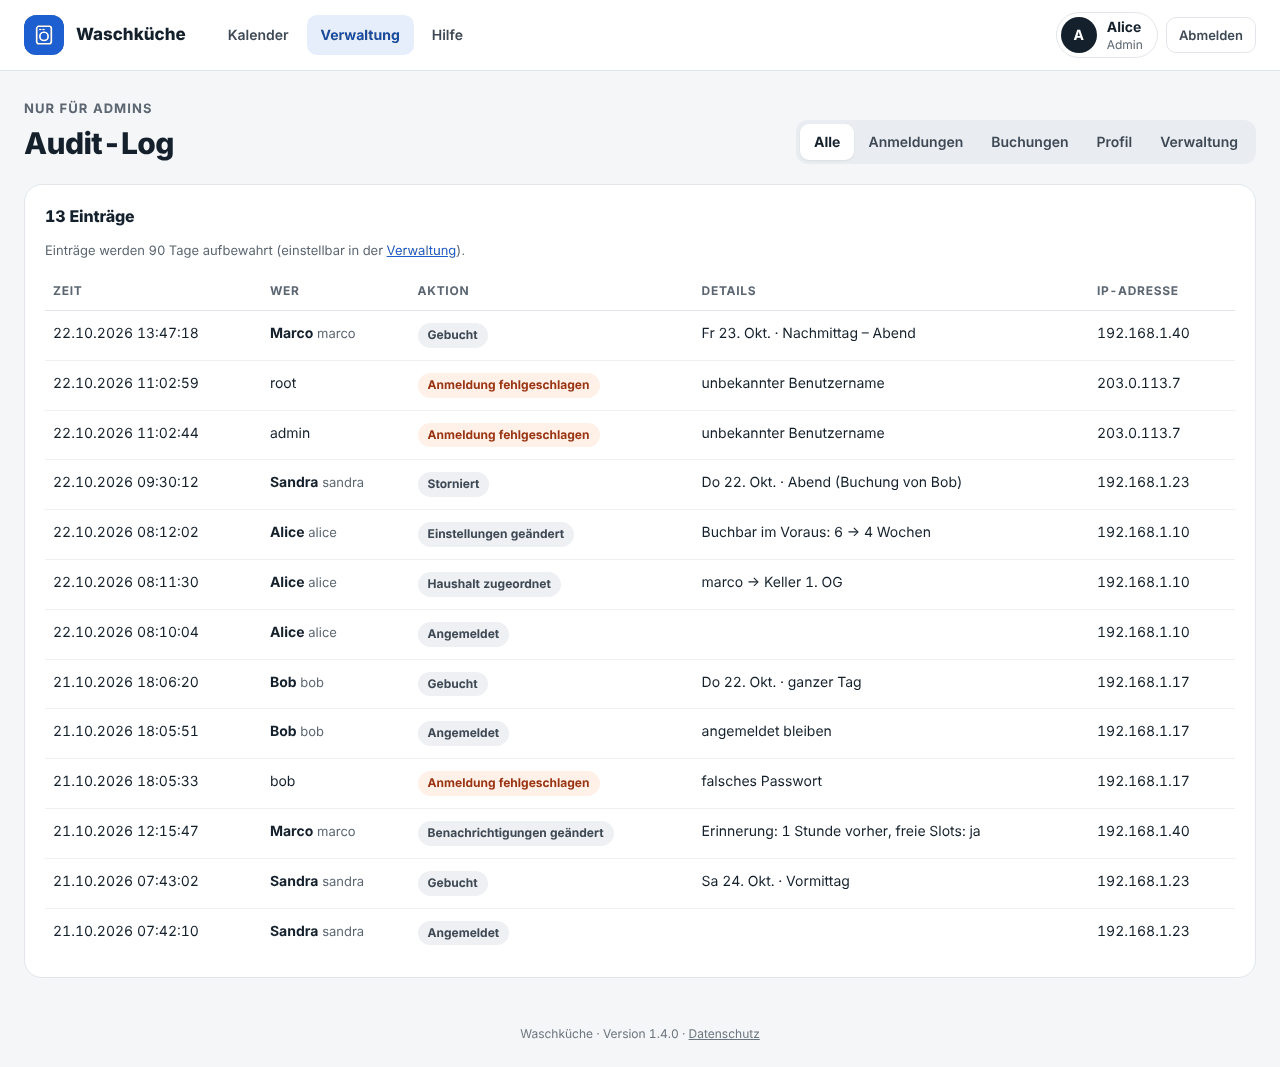
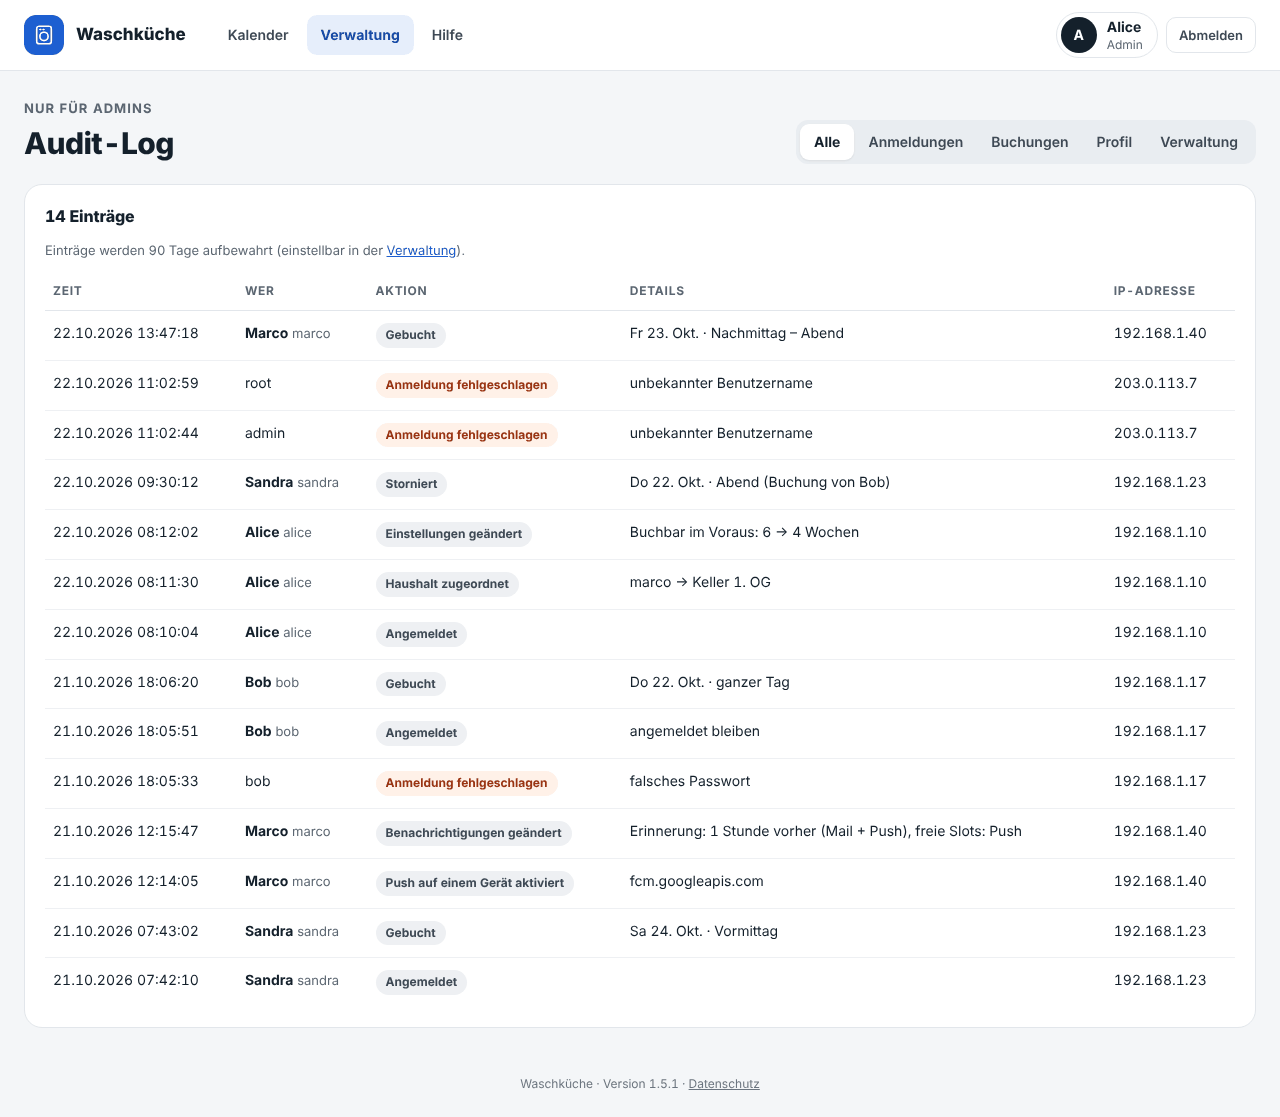
Show push notifications in screenshots, help page and project page
- screenshots.py: mail and push configured; a stand-in for the push service in
  headless Chromium; new notifications.png for the README/project page (push
  active) and the help page (push button and channels highlighted); audit log
  entries in the new format, incl. "Push auf einem Gerät aktiviert"
- Help: new section "Benachrichtigungen" (mail and push, how to switch push on
  per device, iPhone home screen app, blocked notifications); follows whether
  mail and push are configured
- README and project page: notification screenshot, feature text for push
- Retaken README screenshots (current version in the footer, "Passwort
  vergessen?" link); help screenshots unchanged

Claude-Session: https://claude.ai/code/session_01NKmwuoVwqkPr6QQqsvNmse

diff --git a/site/index.html b/site/index.html
@@ -150,7 +150,7 @@
         <div class="card"><h3><span class="icon"><svg viewBox="0 0 24 24" aria-hidden="true"><path d="M8 8l4.8 12 1.9-5.3L20 12.8z"/><path d="M4.5 4.5l1.5 1.5M8 3v2.2M3 8h2.2"/></svg></span>One click to book</h3><p>Click a free slot to book it, click your own booking to cancel it. "Ganzer Tag" books every free slot of a day at once.</p></div>
         <div class="card"><h3><span class="icon"><svg viewBox="0 0 24 24" aria-hidden="true"><rect x="3.5" y="5" width="17" height="15" rx="2"/><path d="M3.5 9.5h17M8 3v4M16 3v4M7.5 13h2M11 13h2M14.5 13h2M7.5 16.5h2M11 16.5h2"/></svg></span>Week and month view</h3><p>The week calendar is the default; the month overview shows the bigger picture. Both work well on phones.</p></div>
         <div class="card"><h3><span class="icon"><svg viewBox="0 0 24 24" aria-hidden="true"><circle cx="12" cy="12" r="8.5"/><path d="M12 7.5V12l3 2"/></svg></span>At a glance</h3><p>A "now in the laundry room" card, the next free slot and your upcoming bookings, with adjacent slots shown as one block.</p></div>
-        <div class="card"><h3><span class="icon"><svg viewBox="0 0 24 24" aria-hidden="true"><rect x="3.5" y="5.5" width="17" height="13" rx="2"/><path d="M4 7l8 6 8-6"/></svg></span>Mail reminders</h3><p>Optional per user, once the address is confirmed: a reminder before your booking, a note when a slot becomes free, and password reset. One-click unsubscribe.</p></div>
+        <div class="card"><h3><span class="icon"><svg viewBox="0 0 24 24" aria-hidden="true"><path d="M6 16.5V11a6 6 0 0 1 12 0v5.5l1.5 2h-15z"/><path d="M10 20.5a2 2 0 0 0 4 0"/></svg></span>Mail and push reminders</h3><p>A reminder before your booking and a note when a slot becomes free: by mail, as a push notification on phone or computer, or both. Plain Web Push, no extra account.</p></div>
         <div class="card"><h3><span class="icon"><svg viewBox="0 0 24 24" aria-hidden="true"><rect x="3.5" y="5" width="17" height="15" rx="2"/><path d="M3.5 9.5h17M8 3v4M16 3v4"/><path d="M12 12.5v5M9.8 15.3l2.2 2.2 2.2-2.2"/></svg></span>In your calendar</h3><p>Subscribe to your own bookings, or those of your whole household, as an iCal feed: on the iPhone with one tap, on Android with ICSx⁵, or in Google Calendar. A private link you can renew any time.</p></div>
         <div class="card"><h3><span class="icon"><svg viewBox="0 0 24 24" aria-hidden="true"><circle cx="9" cy="8.5" r="3"/><path d="M3.5 19c.6-3 2.8-4.5 5.5-4.5s4.9 1.5 5.5 4.5"/><circle cx="17" cy="9.5" r="2.3"/><path d="M15.5 14.7c2.4-.3 4.4.9 5 3.8"/></svg></span>Minimal admin area</h3><p>Create and delete users, group them into households, reset passwords, set how many weeks ahead people can book, cancel any booking. An audit log shows logins, failed login attempts, bookings and changes, and cleans itself up after a number of days you choose.</p></div>
         <div class="card"><h3><span class="icon"><svg viewBox="0 0 24 24" aria-hidden="true"><path d="M12 3l7.5 3v5.5c0 4.5-3.2 8-7.5 9.5-4.3-1.5-7.5-5-7.5-9.5V6z"/><path d="M8.8 12.2l2.2 2.2 4.2-4.4"/></svg></span>Small and safe</h3><p>Flask and SQLite, no external CDNs. CSRF protection, a strict CSP, login throttling, an unprivileged container and weekly dependency audits.</p></div>
@@ -163,10 +163,16 @@
       <h2>Screenshots</h2>
       <p class="sub">The interface is in German (Swiss style).</p>
       <div class="gallery">
-        <figure>
-          <img src="screenshots/phone.png" alt="Week view on a phone" loading="lazy">
-          <figcaption>On the phone</figcaption>
-        </figure>
+        <div class="stack">
+          <figure>
+            <img src="screenshots/phone.png" alt="Week view on a phone" loading="lazy">
+            <figcaption>On the phone</figcaption>
+          </figure>
+          <figure>
+            <img src="screenshots/notifications.png" alt="Notification settings: push button, reminder and freed slots by mail or push" loading="lazy">
+            <figcaption>Notifications by mail and push</figcaption>
+          </figure>
+        </div>
         <div class="stack">
           <figure>
             <img src="screenshots/month.png" alt="Month overview" loading="lazy">
@@ -198,7 +204,7 @@
           <h3>Production (Docker Compose)</h3>
 <pre><code>git clone https://github.com/martigr/laundry-booking
 cd laundry-booking
-cp .env.example .env   <span class="c"># SECRET_KEY, admin, BASE_URL, mail</span>
+cp .env.example .env   <span class="c"># SECRET_KEY, admin, BASE_URL, mail, push</span>
 chmod 600 .env
 docker compose up -d --build</code></pre>
         </div>
@@ -212,7 +218,7 @@ flask --app laundry --debug run
         </div>
       </div>
       <p class="sub" style="margin:24px 0 8px">Before going online, work through the <a href="https://github.com/martigr/laundry-booking#security-checklist">security checklist</a> (HTTPS proxy, secrets, backups, updates).</p>
-      <p class="sub">Configuration, mail setup, volumes and the command line are described in the <a href="https://github.com/martigr/laundry-booking#readme">README</a>; architecture and conventions in <a href="https://github.com/martigr/laundry-booking/blob/main/docs/DEVELOPMENT.md">docs/DEVELOPMENT.md</a>.</p>
+      <p class="sub">Configuration, mail and push setup, volumes and the command line are described in the <a href="https://github.com/martigr/laundry-booking#readme">README</a>; architecture and conventions in <a href="https://github.com/martigr/laundry-booking/blob/main/docs/DEVELOPMENT.md">docs/DEVELOPMENT.md</a>.</p>
     </div>
   </section>
 </main>

diff --git a/laundry/templates/help.html b/laundry/templates/help.html
@@ -28,6 +28,7 @@
         <li><a href="#monat">Monatsübersicht</a></li>
         <li><a href="#handy">Auf dem Handy</a></li>
         <li><a href="#haushalt">Haushalt</a></li>
+        {% if mail_enabled or push_enabled %}<li><a href="#benachrichtigungen">Benachrichtigungen</a></li>{% endif %}
         <li><a href="#profil">Profil, Benachrichtigungen und Passwort</a></li>
       </ol>
     </nav>
@@ -140,15 +141,52 @@
       erscheinen in «Eure nächsten Buchungen» und du kannst sie stornieren.</p>
   </section>
 
+  {% if mail_enabled or push_enabled %}
+  <section class="card" id="benachrichtigungen">
+    <h2>Benachrichtigungen</h2>
+    {% set channels = 'per Mail, per Push-Mitteilung, beides oder gar nicht' if mail_enabled and push_enabled
+                      else ('per Mail oder gar nicht' if mail_enabled else 'per Push-Mitteilung oder gar nicht') %}
+    <div class="help-phone">
+      {% if push_enabled %}{{ shot('notifications', 'Profil, Karte «Benachrichtigungen» mit dem Knopf «Push aktivieren» und den Häkchen «per Mail» und «per Push»', 374, 667) }}{% endif %}
+      <div>
+        <p>Die Waschküche erinnert dich an deine Buchungen und sagt dir Bescheid, wenn in den nächsten 7 Tagen ein
+          Slot frei wird. Im <a href="{{ url_for('profile.index') }}">Profil</a> unter «Benachrichtigungen» wählst du
+          für beides, ob du sie {{ channels }} bekommen willst, und klickst auf <strong>Speichern</strong>.
+          Für die Erinnerung wählst du auch, wie lange vorher sie kommt.</p>
+        {% if mail_enabled %}
+        <p><strong>Per Mail:</strong> Trage deine Adresse ein und bestätige sie über den Link in der Bestätigungsmail.
+          Vorher bekommst du keine Mails. Jede Mail hat unten einen Link zum Abbestellen.</p>
+        {% endif %}
+        {% if push_enabled %}
+        <p><strong>Per Push:</strong> Die Mitteilung erscheint direkt auf dem Handy oder Computer, wie bei einer
+          Chat-App. Schalte Push auf jedem Gerät einmal ein:</p>
+        <ol class="help-steps">
+          <li><strong>iPhone und iPad:</strong> Leg die Waschküche zuerst auf den Home-Bildschirm (siehe
+            <a href="#handy">Auf dem Handy</a>) und öffne sie von dort. In Safari selbst geht Push nicht.
+            Auf Android und am Computer geht es direkt im Browser.</li>
+          <li>Tippe im Profil auf <strong>Push aktivieren</strong> und erlaube die Mitteilungen.</li>
+          <li>Kreuze bei der Erinnerung und beim freien Slot <strong>per Push</strong> an und klicke auf
+            <strong>Speichern</strong>.</li>
+        </ol>
+        <p>Tippst du auf eine Mitteilung, öffnet sich die Woche mit dem Slot. Mit <strong>Push deaktivieren</strong>
+          schaltest du sie auf diesem Gerät wieder aus.</p>
+        {% endif %}
+      </div>
+    </div>
+    {% if push_enabled %}
+    <p class="hint">Steht im Profil «Mitteilungen sind für diese Seite blockiert»? Dann hast du sie einmal abgelehnt.
+      Erlaube sie in den Einstellungen: auf dem iPhone unter Einstellungen → Mitteilungen → Waschküche, sonst in den
+      Website-Einstellungen des Browsers. Kommt nichts an, prüfe auch «Nicht stören» bzw. den Fokus-Modus.</p>
+    {% endif %}
+  </section>
+  {% endif %}
+
   <section class="card" id="profil">
     <h2>Profil, Benachrichtigungen und Passwort</h2>
     <p>Im <a href="{{ url_for('profile.index') }}">Profil</a> (Klick auf deinen Namen oben rechts) kannst du</p>
     <ul class="help-list">
       <li>den <strong>Anzeigenamen</strong> ändern, unter dem dich die anderen im Kalender sehen,</li>
-      <li><strong>Benachrichtigungen</strong> einschalten: eine Erinnerung vor deinen Buchungen und eine Nachricht, wenn ein Slot frei wird,
-        je {% if push_enabled %}per Mail, per Push-Mitteilung oder beides (deine Mail-Adresse musst du zuerst über den Link in der
-        Bestätigungsmail bestätigen; Push schaltest du auf jedem Gerät mit «Push aktivieren» ein, auf dem iPhone nur in der App
-        auf dem Home-Bildschirm){% else %}per Mail (deine Adresse musst du zuerst über den Link in der Bestätigungsmail bestätigen){% endif %},</li>
+      {% if mail_enabled or push_enabled %}<li><strong>Benachrichtigungen</strong> einschalten (siehe <a href="#benachrichtigungen">Benachrichtigungen</a>),</li>{% endif %}
       <li>deine Buchungen im <strong>Kalender deines Handys</strong> abonnieren,</li>
       <li>dein <strong>Passwort</strong> ändern.</li>
     </ul>

diff --git a/scripts/screenshots.py b/scripts/screenshots.py
@@ -15,6 +15,7 @@ half) and of week.png in site/index.html afterwards.
 """
 import argparse
 import io
+import json
 import os
 import sys
 import tempfile
@@ -29,7 +30,7 @@ from werkzeug.serving import make_server
 ROOT = Path(__file__).resolve().parent.parent
 sys.path.insert(0, str(ROOT))
 
-from laundry import create_app, slots  # noqa: E402
+from laundry import create_app, push, slots  # noqa: E402
 from laundry.cli import seed_demo_command  # noqa: E402
 from laundry.db import get_db  # noqa: E402
 from laundry.users import create_user  # noqa: E402
@@ -38,6 +39,17 @@ PORT = 5077
 BASE = f'http://127.0.0.1:{PORT}'
 HIGHLIGHT = '.hl { outline: 3px solid #FB923C !important; outline-offset: 3px; }'
 PASSWORD = 'screenshots'
+PUSH_ENDPOINT = 'https://fcm.googleapis.com/fcm/send/screenshots'
+
+# Headless Chromium has no push service: stand in for it, so the profile shows the push button.
+# The subscription "exists" when the server knows PUSH_ENDPOINT for the user (data-endpoints).
+FAKE_PUSH = """
+PushManager.prototype.getSubscription = async function () {
+  const box = document.getElementById('push-device');
+  const known = box ? JSON.parse(box.dataset.endpoints) : [];
+  return known.includes(ENDPOINT) ? {endpoint: ENDPOINT} : null;
+};
+""".replace('ENDPOINT', json.dumps(PUSH_ENDPOINT))
 
 
 def save(png, path):
@@ -71,10 +83,33 @@ def login(page, username, password=PASSWORD):
     page.mouse.move(0, 0)  # no hover effect on what was under the login button
 
 
+def push_page(browser, username, password=PASSWORD, **context):
+    """A logged-in page whose browser may show notifications and pretends to have a push service."""
+    ctx = browser.new_context(permissions=['notifications'], **context)
+    ctx.add_init_script(FAKE_PUSH)
+    page = ctx.new_page()
+    login(page, username, password)
+    return page
+
+
+def subscribe_device(con, user_id):
+    p256dh = 'B' + 'A' * 86  # never used: nothing is sent
+    con.execute('INSERT INTO push_subscriptions (user_id, endpoint, p256dh, auth, created_at) '
+                "VALUES (?, ?, ?, 'AAAAAAAAAAAAAAAAAAAAAA', '2026-10-01T12:00:00')", (user_id, PUSH_ENDPOINT, p256dh))
+
+
+def notifications_card(page):
+    page.goto(BASE + '/profile')
+    page.wait_for_selector('#push-toggle:not([hidden])')
+    return page.locator('form.card', has=page.locator('#push-device'))
+
+
 def run(prepare, shoot):
     """Serve a fresh app with the data from prepare(app) and call shoot(browser, app)."""
     with tempfile.TemporaryDirectory() as tmp:
-        app = create_app({'SECRET_KEY': 'screenshots', 'DATABASE': f'{tmp}/demo.db'})
+        # Mail and push on, so the profile and the help page show both (nothing is sent)
+        app = create_app({'SECRET_KEY': 'screenshots', 'DATABASE': f'{tmp}/demo.db', 'SMTP_HOST': 'smtp.invalid',
+                          'MAIL_FROM': 'waschkueche@example.ch', 'VAPID_PRIVATE_KEY': push.new_private_key()})
         with app.app_context():
             prepare(app)
         server = make_server('127.0.0.1', PORT, app)
@@ -110,7 +145,8 @@ README_BOOKINGS = {  # day of October 2026: (Vormittag, Nachmittag, Abend)
 AUDIT_ENTRIES = [  # oldest first: time, username, action, detail, address
     ('2026-10-21T07:42:10', 'sandra', 'login', '', '192.168.1.23'),
     ('2026-10-21T07:43:02', 'sandra', 'book', 'Sa 24. Okt. · Vormittag', '192.168.1.23'),
-    ('2026-10-21T12:15:47', 'marco', 'notifications', 'Erinnerung: 1 Stunde vorher, freie Slots: ja',
+    ('2026-10-21T12:14:05', 'marco', 'push_enabled', 'fcm.googleapis.com', '192.168.1.40'),
+    ('2026-10-21T12:15:47', 'marco', 'notifications', 'Erinnerung: 1 Stunde vorher (Mail + Push), freie Slots: Push',
      '192.168.1.40'),
     ('2026-10-21T18:05:33', None, 'login_failed', 'falsches Passwort', '192.168.1.17'),
     ('2026-10-21T18:05:51', 'bob', 'login', 'angemeldet bleiben', '192.168.1.17'),
@@ -147,6 +183,10 @@ def readme_data(app):
                 if owner:
                     con.execute('INSERT INTO reservations (day, slot, user_id, note) VALUES (?, ?, ?, ?)',
                                 (date(2026, 10, day).isoformat(), slot, ids[owner], README_NOTES.get((day, slot))))
+        # Marco: reminders by mail and push, freed slots by push, on this "phone"
+        con.execute('UPDATE users SET reminder_minutes = 60, reminder_mail = 1, reminder_push = 1, freed_push = 1 '
+                    'WHERE id = ?', (ids['marco'],))
+        subscribe_device(con, ids['marco'])
     readme_data.ids = ids
 
 
@@ -176,6 +216,11 @@ def readme_shots(browser, app):
     login(phone, 'bob')
     save(phone.screenshot(), README_DIR / 'phone.png')
 
+    phone = push_page(browser, 'marco', viewport={'width': 390, 'height': 844}, device_scale_factor=2,
+                      is_mobile=True, has_touch=True)
+    card = notifications_card(phone)
+    save(phone.screenshot(clip=union(card.bounding_box(), pad=8), full_page=True), README_DIR / 'notifications.png')
+
     admin = browser.new_page(viewport={'width': 1280, 'height': 720})
     login(admin, 'alice')
     admin.goto(BASE + '/admin')
@@ -202,6 +247,9 @@ def help_data(app):
     slots.now = lambda: HELP_NOW
     app.test_cli_runner().invoke(seed_demo_command)  # bob / password456, not in a household
     with get_db() as con:
+        # Bob: confirmed address, reminder by mail, freed slots by mail and push
+        con.execute("UPDATE users SET email = 'bob@example.ch', email_verified = 1, reminder_minutes = 60, "
+                    "reminder_mail = 1, notify_freed = 1, freed_push = 1 WHERE username = 'bob'")
         con.executemany('UPDATE reservations SET note = ? WHERE day = ? AND slot = ?',
                         [(note, day, slot) for (day, slot), note in HELP_NOTES.items()])
 
@@ -271,6 +319,15 @@ def help_shots(browser, app):
     login(page, 'bob', 'password456')
     save(page.screenshot(), HELP_DIR / 'phone.png')
     phone.close()
+
+    # Profile: the push button (not yet active on this phone) and the channels
+    page = push_page(browser, 'bob', 'password456', viewport={'width': 390, 'height': 844}, device_scale_factor=2,
+                     is_mobile=True, has_touch=True)
+    card = notifications_card(page)
+    page.add_style_tag(content=HIGHLIGHT)
+    mark(page, '#push-toggle, .channels')
+    save(page.screenshot(clip=union(card.bounding_box(), pad=8), full_page=True), HELP_DIR / 'notifications.png')
+    page.context.close()
 
 
 SETS = {'readme': (readme_data, readme_shots), 'help': (help_data, help_shots)}

diff --git a/tests/test_help.py b/tests/test_help.py
@@ -15,6 +15,9 @@ def test_help_page(client, login):
     assert 'href="/privacy">Datenschutz</a> (Link ganz unten' in html
     assert '<a href="#notiz">Eine Notiz zur Buchung</a>' in html
     assert '«Deine nächsten Buchungen» oben rechts einen kleinen Knopf' in html
+    # Mail is configured, push isn't: the notification section only talks about mail
+    assert 'ob du sie per Mail oder gar nicht bekommen willst' in html
+    assert 'Push' not in html and 'help/notifications.png' not in html
 
 
 def test_help_link_in_navigation(client, login):
@@ -22,10 +25,10 @@ def test_help_link_in_navigation(client, login):
     assert 'href="/help" class="">Hilfe</a>' in client.get('/').get_data(as_text=True)
 
 
-def test_help_screenshots_exist(client, login):
+def test_help_screenshots_exist(client, login, pushbox):
     login('bob')
     images = re.findall(r'<img src="([^"]+)"', client.get('/help').get_data(as_text=True))
-    assert len(images) == 9
+    assert len(images) == 10
     for src in images:
         r = client.get(src)
         assert r.status_code == 200 and r.mimetype == 'image/png'
@@ -42,3 +45,4 @@ def test_help_follows_settings_and_role(app, client, login):
     assert 'Als Admin kannst du auch fremde Buchungen stornieren' in html
     assert 'Ein Admin setzt dir ein neues Passwort.' in html
     assert 'Anmeldeseite' not in html
+    assert 'id="benachrichtigungen"' not in html  # neither mail nor push

diff --git a/tests/test_push.py b/tests/test_push.py
@@ -434,6 +434,10 @@ def test_help_and_privacy_mention_push_only_when_configured(app, client, login):
     assert 'Push' not in client.get('/help').get_data(as_text=True)
     assert 'Push' not in client.get('/privacy').get_data(as_text=True)
     app.config['VAPID_PRIVATE_KEY'] = VAPID_KEY
-    assert '«Push aktivieren»' in client.get('/help').get_data(as_text=True)
+    html = client.get('/help').get_data(as_text=True)
+    assert '<a href="#benachrichtigungen">Benachrichtigungen</a>' in html
+    assert 'per Mail, per Push-Mitteilung, beides oder gar nicht' in html
+    assert 'Tippe im Profil auf <strong>Push aktivieren</strong>' in html
+    assert '/static/help/notifications.png' in html
     page = client.get('/privacy').get_data(as_text=True)
     assert 'Push-Dienst deines Browsers' in page and 'Push-Geräte' in page

diff --git a/docs/DEVELOPMENT.md b/docs/DEVELOPMENT.md
@@ -539,8 +539,13 @@ Without `SMTP_HOST`/`MAIL_FROM` no mail is queued and the "Passwort vergessen?" 
 - Screenshots are taken by `scripts/screenshots.py`, each set on its own temporary database with
   fixed data and a fixed clock (Thursday afternoon, so today and a running slot are visible):
   - `readme`: `docs/screenshots/` for the README and the project page (desktop 1280 px wide, phone
-    390 px at 2x; households, five users, a week of audit entries). The Pages workflow copies them.
+    390 px at 2x; households, five users, a week of audit entries, the notification settings with push
+    active). The Pages workflow copies them.
   - `help`: `static/help/` for the help page (demo data, logged in as bob, highlights in orange).
+
+  Both sets run with mail and push configured (nothing is sent). Headless Chromium has no push service,
+  so the script grants the notification permission and replaces `PushManager.getSubscription()` with a
+  stand-in (`FAKE_PUSH`); the profile then shows the push button as a real browser would.
 
   Retake them when the UI changes visibly: `python scripts/screenshots.py` (both sets) or
   `python scripts/screenshots.py help`. It needs Playwright, which is not in `requirements-dev.txt`:
@@ -561,7 +566,8 @@ Without `SMTP_HOST`/`MAIL_FROM` no mail is queued and the "Passwort vergessen?" 
   anything personal or consume flash messages (`test_pwa.py` checks both).
 - The help page (`/help`, "Hilfe" in the navigation) explains booking and cancelling with these
   screenshots. Its texts follow the settings (slot times, booking horizon), the role (admin
-  paragraph) and whether mail is configured. When the calendar, booking or cancelling changes, update
+  paragraph) and whether mail and push are configured (the "Benachrichtigungen" section only appears
+  with at least one of them, its push part and screenshot only with push). When the calendar, booking or cancelling changes, update
   `help.html` too.
 
 ## Testing

diff --git a/README.md b/README.md
@@ -11,7 +11,10 @@ Whoever is first gets the slot; if something doesn't fit, people talk to each ot
 
 <table>
   <tr>
-    <td width="32%" valign="top"><img src="docs/screenshots/phone.png" alt="Week view on a phone"><br><sub>On the phone</sub></td>
+    <td width="32%" valign="top">
+      <img src="docs/screenshots/phone.png" alt="Week view on a phone"><br><sub>On the phone</sub><br><br>
+      <img src="docs/screenshots/notifications.png" alt="Notification settings with the push button"><br><sub>Notifications by mail and push</sub>
+    </td>
     <td valign="top">
       <img src="docs/screenshots/month.png" alt="Month overview"><br><sub>Month overview</sub><br><br>
       <img src="docs/screenshots/admin.png" alt="Admin area"><br><sub>Admin area</sub><br><br>
